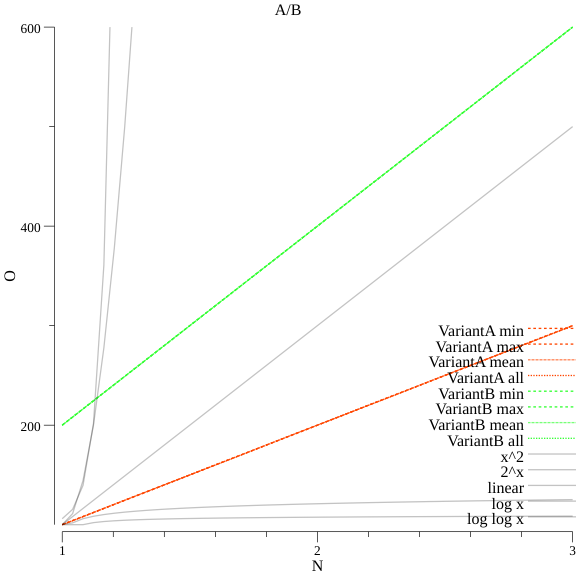
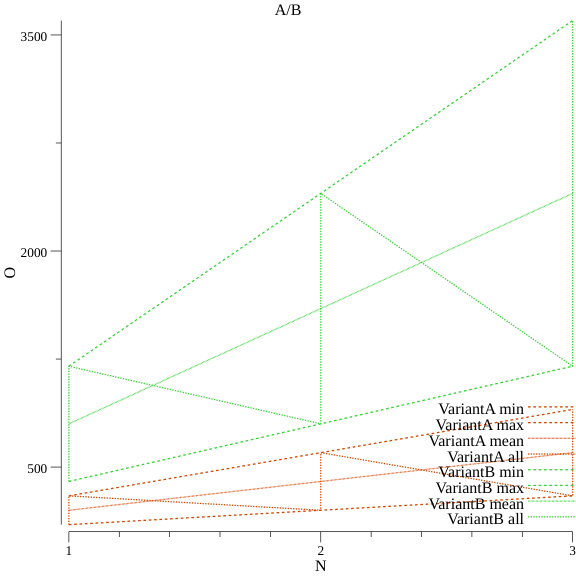
show how to combine multiple results

diff --git a/examples/ex3/main.go b/examples/ex3/main.go
@@ -9,8 +9,8 @@ import (
 func main() {
 	seriesList := bigo.PlotSeriesList{}
 	for testName, testRunner := range map[string]Runner{
-		"VariantA": {Sleep: 100},
-		"VariantB": {Sleep: 200},
+		"VariantA": {Sleep: 100, Factor: 1},
+		"VariantB": {Sleep: 200, Factor: 2},
 	} {
 		seriesList = append(seriesList, bigo.PlotSeries{Name: testName, Results: bigo.
 			New(
@@ -20,28 +20,26 @@ func main() {
 			).
 			Run().GetResults(),
 		})
-
 	}
 
-	plotConfig := bigo.DefaultPlotConfig
-	plotConfig.ReferencePlots = true
-
 	// plot the collected result data and create one plot out of the data
-	bigo.PlotTestResultsWithConfig("A/B", seriesList, plotConfig)
-
+	bigo.PlotTestResults("A/B", seriesList)
 }
 
 // Runner implements TestRunner
 type Runner struct {
-	Sleep int
+	Sleep  int
+	Factor int
 }
 
-// Step simulated to test some logic. For simplicity it simply waits N*r.Sleep milliseconds.
+// Step simulated 3 additional scales to the given N. In this case
 func (r Runner) Step(n float64) bigo.OMeasures {
-	timeStart := time.Now()
+	var measures bigo.OMeasures
+	for i := 1; i <= 3; i++ {
+		timeStart := time.Now()
+		time.Sleep(time.Millisecond * time.Duration(r.Sleep) * time.Duration(n) * time.Duration(i*r.Factor))
+		measures = append(measures, bigo.OMeasure{O: float64(time.Since(timeStart).Milliseconds())})
+	}
 
-	// TODO: put your code under test here
-	time.Sleep(time.Millisecond * time.Duration(r.Sleep) * time.Duration(n))
-
-	return bigo.OMeasures{{O: float64(time.Since(timeStart).Milliseconds())}}
+	return measures
 }

diff --git a/plot.go b/plot.go
@@ -193,9 +193,9 @@ func newPalette() palette {
 	return palette{
 		colors: []color.RGBA{
 
-			{R: 255, G: 69, B: 0, A: 255},
-			{R: 50, G: 255, B: 50, A: 255},
-			{R: 0, G: 191, B: 255, A: 255},
+			{R: 211, G: 69, B: 0, A: 255},
+			{R: 50, G: 211, B: 50, A: 255},
+			{R: 0, G: 191, B: 211, A: 255},
 			{R: 255, G: 215, B: 0, A: 255},
 			{R: 186, G: 85, B: 211, A: 255},
 			{R: 32, G: 178, B: 170, A: 255},

diff --git a/README.md b/README.md
@@ -82,3 +82,39 @@ func (r Runner) Step(n float64) bigo.OMeasures {
  Variant A           |  Variant B
 :-------------------------:|:-------------------------:
 ![](examples/ex2/VariantA.png)  |  ![](examples/ex2/VariantB.png)
+
+
+## Example combining multiple Results in one plot
+
+To combine mutliple capture results in one plot you have to collect
+the Results into a **bigo.PlotSeriesList**, which then can be passed
+to **bigo.PlotTestResults** to generate one plot file.
+
+**Here's a sample**
+[examples/ex3/main.go](examples/ex3/main.go)
+
+ ```go
+func main() {
+	seriesList := bigo.PlotSeriesList{}
+	for testName, testRunner := range map[string]Runner{
+		"VariantA": {Sleep: 100, Factor: 1},
+		"VariantB": {Sleep: 200, Factor: 2},
+	} {
+		seriesList = append(seriesList, bigo.PlotSeries{Name: testName, Results: bigo.
+			New(
+				testName,
+				testRunner,
+				bigo.NewArrayStepper([]float64{1, 2, 3}),
+			).
+			Run().GetResults(),
+		})
+	}
+
+	// plot the collected result data and create one plot out of the data
+	bigo.PlotTestResults("A/B", seriesList)
+}
+ ```
+ 
+ Combinaed Plot          | 
+:-------------------------:|
+![](examples/ex3/AB.png)|
